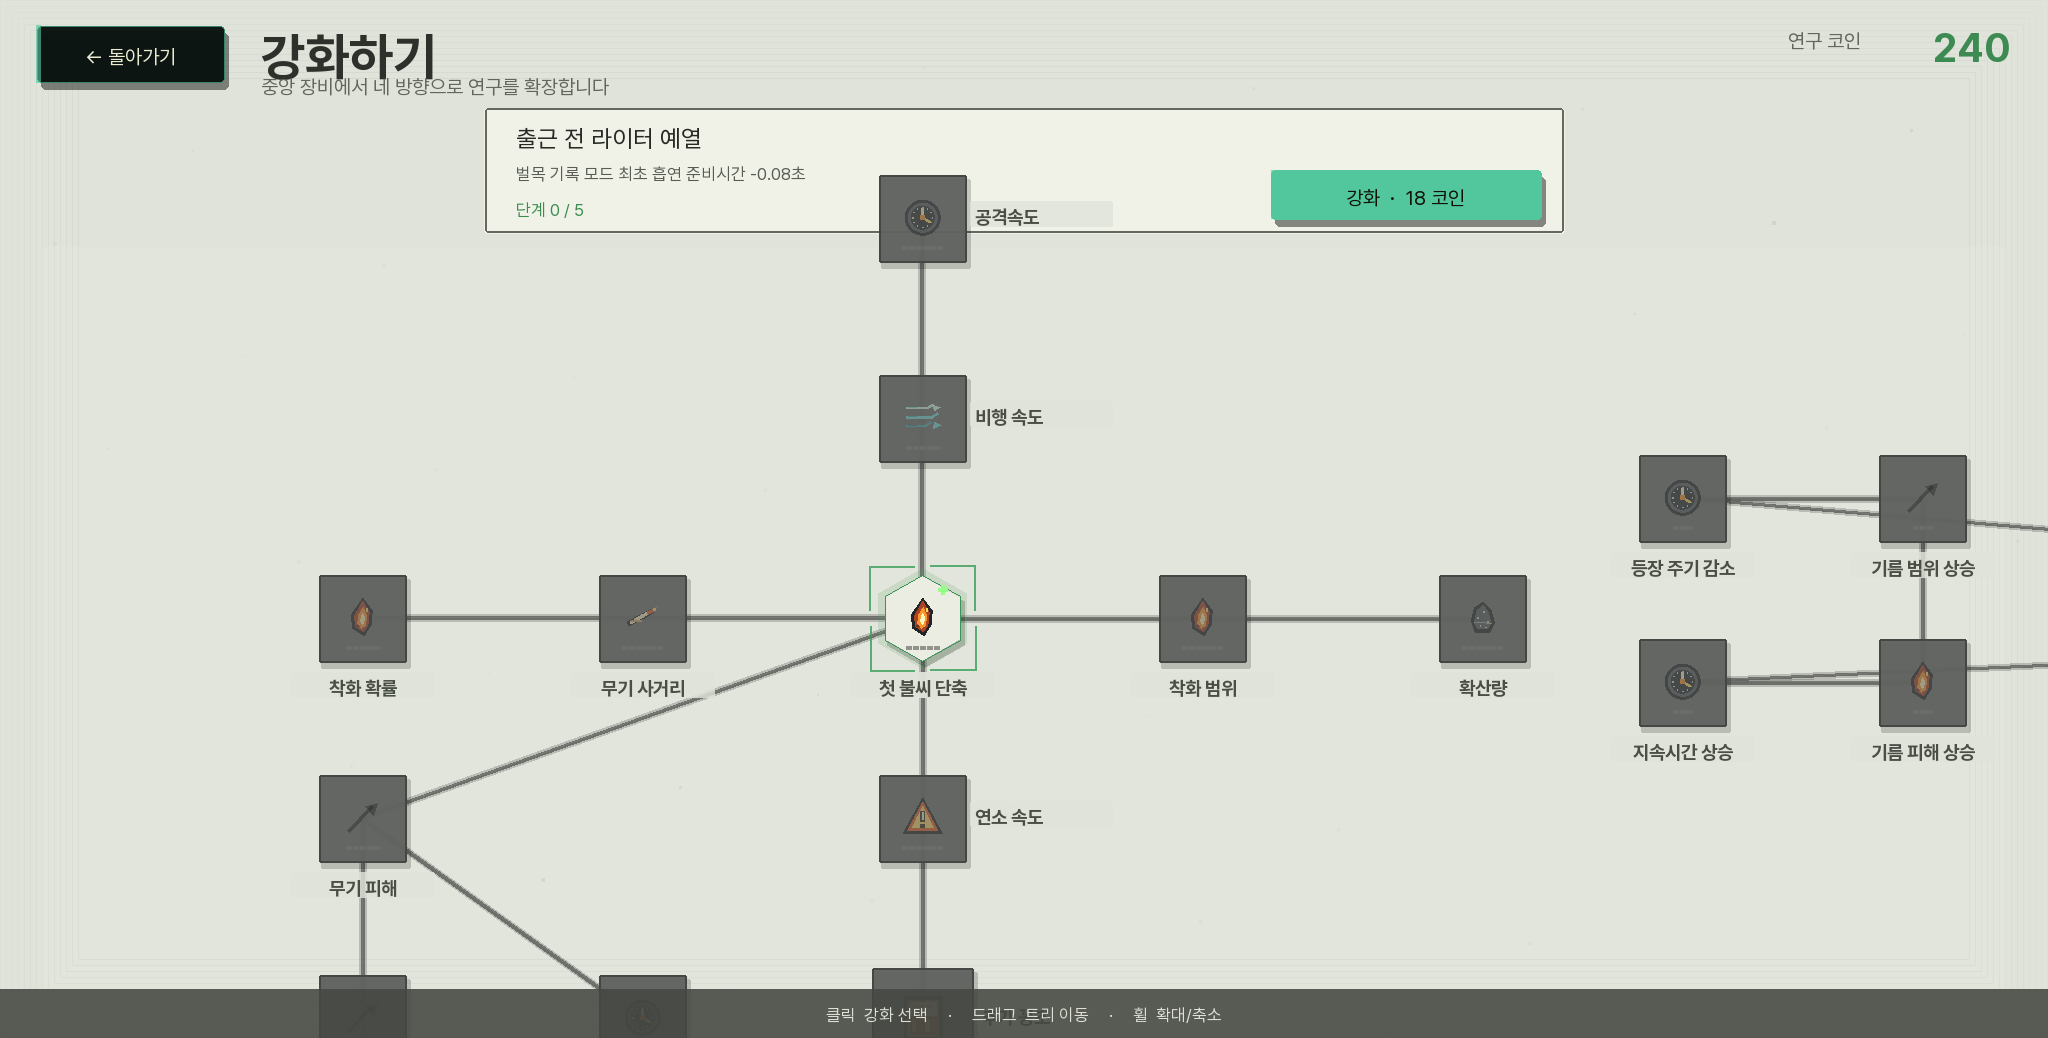
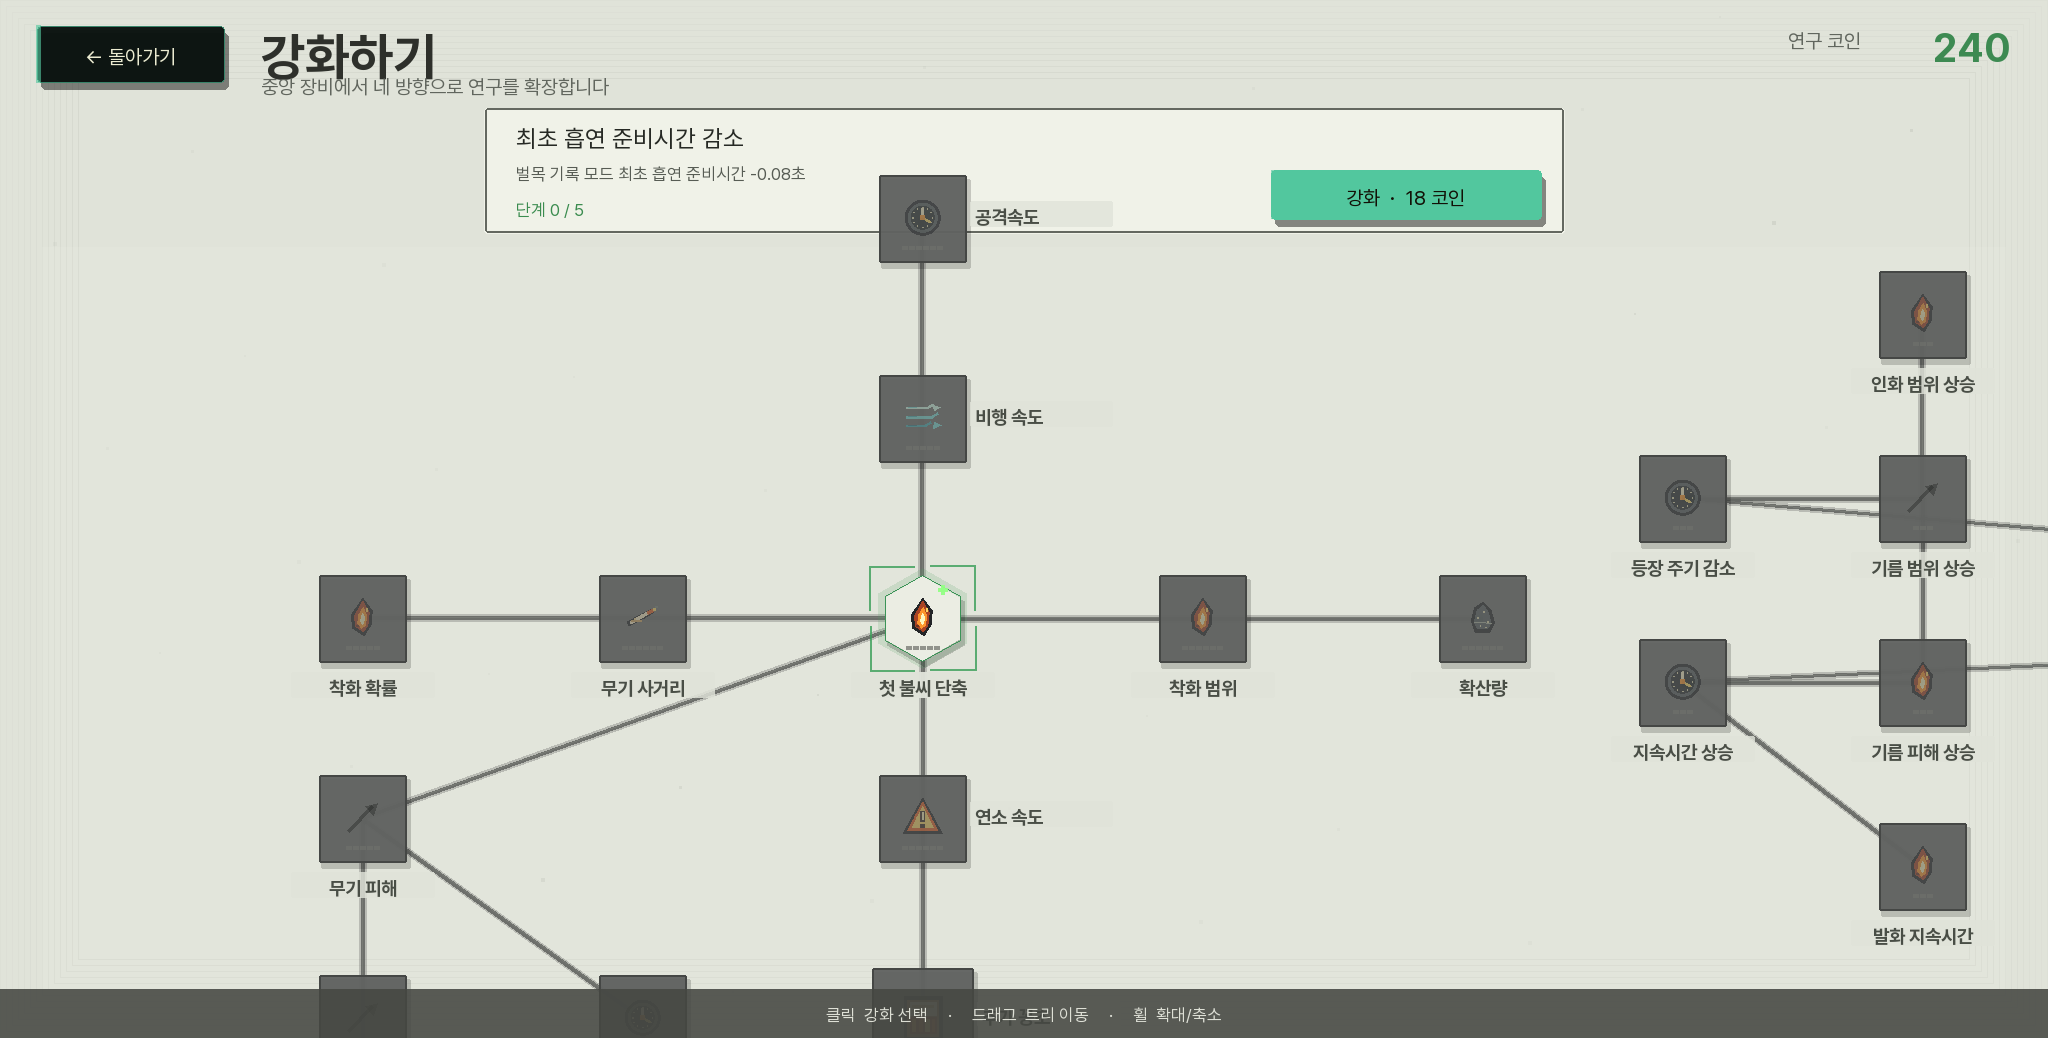
feat: expand oil drum research branch

diff --git a/docs/character_dossier.html b/docs/character_dossier.html
@@ -703,7 +703,9 @@ const TRAITS = {
       {id:"universal_oil_drum",name:"기름 드럼통 생성",short:"드럼통 생성",desc:"벌목 기록 모드에서 22초마다 기름 드럼통이 떨어집니다. 도끼로 두 번 타격하면 드럼통이 넘어지고 전용 8프레임 유출 애니메이션으로 기름이 넓게 퍼집니다.",max:1,costs:[64],requires:[["universal_robot_start",1]]},
       {id:"universal_oil_interval",name:"드럼통 등장 주기",short:"등장 주기 감소",desc:"단계마다 기름 드럼통 등장 주기가 2초 감소합니다.",max:3,costs:[38,64,96],requires:[["universal_oil_drum",1]]},
       {id:"universal_oil_radius",name:"기름 범위",short:"기름 범위 상승",desc:"단계마다 기름 웅덩이의 보이는 크기와 피해 범위가 18 증가합니다.",max:3,costs:[32,54,82],requires:[["universal_oil_interval",1]]},
+      {id:"universal_oil_ignition_radius",name:"기름 인화 범위 상승",short:"인화 범위 상승",desc:"단계마다 담배꽁초가 드럼통 기름에 불을 붙이는 거리가 14 증가합니다.",max:3,costs:[34,58,88],requires:[["universal_oil_radius",2]]},
       {id:"universal_oil_duration",name:"기름 지속시간",short:"지속시간 상승",desc:"단계마다 기름 웅덩이의 지속시간이 3초 증가합니다.",max:3,costs:[28,48,74],requires:[["universal_oil_drum",1]]},
+      {id:"universal_oil_burn_duration",name:"기름 발화 지속시간 상승",short:"발화 지속시간",desc:"단계마다 불붙은 드럼통 기름의 화염 유지시간이 1.5초 증가합니다.",max:3,costs:[42,70,106],requires:[["universal_oil_duration",2]]},
       {id:"universal_oil_damage",name:"기름 피해",short:"기름 피해 상승",desc:"단계마다 불붙은 기름의 나무 및 적 피해가 1 증가합니다.",max:3,costs:[45,72,110],requires:[["universal_oil_radius",2],["universal_oil_duration",2]]},
       {id:"universal_gray_cat",name:"회색 고양이 동료",short:"고양이 동료 해금",desc:"드럼통마다 기본 35% 확률로 회색 고양이가 2.2초 뒤 출동해 드럼통을 밀어 넘어뜨립니다. 사용자가 먼저 부수면 출동을 취소합니다.",max:1,costs:[92],requires:[["universal_oil_drum",1]]},
       {id:"universal_gray_cat_chance",name:"고양이 출현 확률",short:"고양이 출현 확률",desc:"단계마다 고양이 출현 확률이 20% 증가합니다.",max:3,costs:[40,68,104],requires:[["universal_gray_cat",1]]},

diff --git a/docs/SYSTEM_MAP.md b/docs/SYSTEM_MAP.md
@@ -146,8 +146,8 @@
 | 폭죽 전용 | 25 | — | 1,572 |
 | 도끼 전용 | 22 | — | 2,972 |
 | 무기 공용 | 17 | — | 1,230 |
-| 동료 · 운영 | 51 | — | 3,366 |
-| **합계** | **151** | 44노드 | **11,854** |
+| 동료 · 운영 | 57 | — | 3,764 |
+| **합계** | **157** | 46노드 | **12,252** |
 
 > **가산 수렴 문제 — 부분 해결:** 영구 연구가 순수 가산이라 노가다하면 결국 전부 소유하게 된다. 다만 **무기 졸업 구조**가 이 문제의 절반을 푼다. 마스터한 갈래는 죽은 투자가 아니라 동료로 전환되므로, 다 찍어도 그 코인이 계속 일한다.
 >
@@ -161,7 +161,7 @@
 |---|---|---:|
 | 아기 운반 로봇 | 맵 전체의 착지한 목재를 회수해 경험치로 바꾼다. 여러 대는 목표를 나눠 맡는다. | 2노드 |
 | 두더지 동료 | 가까운 나무를 스스로 골라 발톱으로 친다. 최대 3마리. | 7노드 |
-| 기름 드럼통 | 22초마다 떨어진다. 도끼로 두 번 치면 넘어져 기름이 퍼진다. | 5노드 |
+| 기름 드럼통 | 22초마다 떨어진다. 도끼로 두 번 치면 넘어져 기름이 퍼진다. 범위·잔류·인화 거리·발화 지속시간·피해를 강화한다. | 7노드 |
 | 회색 고양이 | 드럼통마다 35% 확률로 달려와 대신 넘어뜨리고 화면 밖으로 나간다. | 4노드 |
 
 동료는 **자동화 보조**이므로 배타성을 넣지 않는다. 선택은 무기 쪽에서 일어나고, 여기는 켜두면 알아서 돌아가는 층이다.
